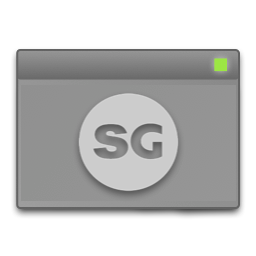
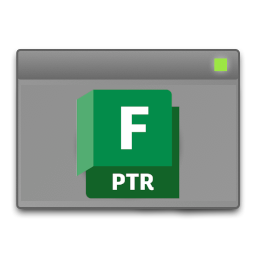
SG-34314 - Rebranding (#3)
* Change all the shotgrid/shotgun occurrences in the repository.

* Update logos.

Changed region(s): [[0.2812, 0.3438, 0.7188, 0.7812]]

diff --git a/SECURITY.md b/SECURITY.md
@@ -4,19 +4,19 @@
 
 At Autodesk, we know that the security of your data is critical to your studio’s
 operation.
-As the industry shifts to the cloud, ShotGrid knows that security and service
-models are more important than ever.
+As the industry shifts to the cloud, Flow Production Tracking knows that security
+and service models are more important than ever.
 
 The confidentiality, integrity, and availability of your content is at the top
 of our priority list.
-Not only do we have a team of ShotGrid engineers dedicated to platform security
-and performance, we are also backed by Autodesk’s security team, also invests
-heavily in the security for broad range of industries and customers.
+Not only do we have a team of Flow Production Tracking engineers dedicated to 
+platform security and performance, we are also backed by Autodesk’s security team, 
+also invests heavily in the security for broad range of industries and customers.
 We constantly reassess, develop, and improve our risk management program because
 we know that the landscape of security is ever-changing.
 
-If you believe you have found a security vulnerability in any ShotGrid-owned
-repository, please report it to us as described below.
+If you believe you have found a security vulnerability in any 
+Flow Production Tracking-owned repository, please report it to us as described below.
 
 
 ## Reporting Security Issues
@@ -32,4 +32,4 @@ configurations, reproduction steps, exploit code, impact, etc.
 
 ## Additional Information
 
-Please check out the [ShotGrid Security White Paper](https://help.autodesk.com/view/SGSUB/ENU/?guid=SG_Administrator_ar_general_security_ar_security_white_paper_html).
+Please check out the [Flow Production Tracking Security White Paper](https://help.autodesk.com/view/SGSUB/ENU/?guid=SG_Administrator_ar_general_security_ar_security_white_paper_html).
